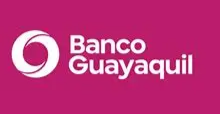
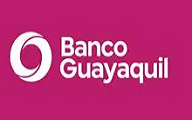
Ajuste de Dimensiones

diff --git a/One.Site/ClientApp/src/views/Pay/SeleccionProveedor.js b/One.Site/ClientApp/src/views/Pay/SeleccionProveedor.js
@@ -3,7 +3,7 @@ import {
     CCol, CContainer, CRow, CForm, CFormInput, CFormLabel, CButton, CLoadingButton,
     CCard, CCardBody, CCardHeader, CCardFooter, CFormSelect
 } from '@coreui/react-pro'
-import produbancoLogo from '../../assets/images/Produbanco.jpg'
+import produbancoLogo from '../../assets/images/Produbanco.png'
 import pichinchaLogo from '../../assets/images/BancoPichincha.png'
 import guayaquilLogo from '../../assets/images/BancoGuayaquil.png'
 
@@ -226,93 +226,98 @@ const SeleccionProveedor = () => {
                
                     <CRow className="d-flex justify-content-center">
                         <CCol xs={12} sm={6} md={3}>
-                            <CCard onClick={() => handleSeleccionPago('Produbanco')} className="text-center cursor-pointer">
+                            <CCard onClick={() => handleSeleccionPago('Produbanco')} className="text-center cursor-pointer mb-4">
                                 <CCardHeader className="bg-success text-white">Produbanco</CCardHeader>
                                 <CCardBody className="d-flex justify-content-center">
-                                    <img src={produbancoLogo} alt="Logo Produbanco" style={{ width: '220px' }} />
+                                        <img
+                                            src={produbancoLogo}
+                                            alt="Logo Produbanco"
+                                            className="img-fluid"
+                                           
+                                        />
                                     </CCardBody>
                                     <CCardFooter className="border-success border-3 text-start">
-                                        <div className="d-flex mb-1">
+                                        <div className="d-flex flex-wrap mb-1">
                                             <strong style={{ display: 'inline-block', width: '90px' }}>Tipo:</strong>
-                                            <span>Corriente</span>
+                                            <span className="text-break">Corriente</span>
                                         </div>
-                                        <div className="d-flex mb-1">
+                                        <div className="d-flex flex-wrap mb-1">
                                             <strong style={{ display: 'inline-block', width: '90px' }}>Número:</strong>
-                                            <span>2006177944</span>
+                                            <span className="text-break">2006177944</span>
                                         </div>
-                                        <div className="d-flex">
+                                        <div className="d-flex flex-wrap">
                                             <strong style={{ display: 'inline-block', width: '90px' }}>RUC:</strong>
-                                            <span>0993334642001</span>
+                                            <span className="text-break">0993334642001</span>
                                         </div>
-                                        <div className="d-flex">
+                                        <div className="d-flex flex-wrap">
                                             <strong style={{ display: 'inline-block', width: '90px' }}>Nombre:</strong>
-                                            <span>ONEBYTE S.A.</span>
+                                            <span className="text-break">ONEBYTE S.A.</span>
                                         </div>
-                                        <div className="d-flex">
+                                        <div className="d-flex flex-wrap">
                                             <strong style={{ display: 'inline-block', width: '90px' }}>Correo:</strong>
-                                            <span>pagos@onebyte.com.ec</span>
+                                            <span className="text-break">pagos@onebyte.com.ec</span>
                                         </div>
                                     </CCardFooter>
                             </CCard>
                         </CCol>
 
                         <CCol xs={12} sm={6} md={3}>
-                            <CCard onClick={() => handleSeleccionPago('Pichincha')} className="text-center cursor-pointer">
+                                <CCard onClick={() => handleSeleccionPago('Pichincha')} className="text-center cursor-pointer mb-4">
                                 <CCardHeader className="bg-warning text-dark">Banco Pichincha</CCardHeader>
                                 <CCardBody className="d-flex justify-content-center">
-                                    <img src={pichinchaLogo} alt="Logo Pichincha" style={{ width: '250px' }} />
+                                        <img src={pichinchaLogo} alt="Logo Pichincha" className="img-fluid" />
                                     </CCardBody>
                                     <CCardFooter className="border-warning border-3 text-start">
-                                        <div className="d-flex mb-1">
+                                        <div className="d-flex flex-wrap mb-1">
                                             <strong style={{ display: 'inline-block', width: '90px' }}>Tipo:</strong>
-                                            <span>Corriente</span>
+                                            <span className="text-break">Corriente</span>
                                         </div>
-                                        <div className="d-flex mb-1">
+                                        <div className="d-flex flex-wrap mb-1">
                                             <strong style={{ display: 'inline-block', width: '90px' }}>Número:</strong>
-                                            <span>2100285305</span>
+                                            <span className="text-break">2100285305</span>
                                         </div>
-                                        <div className="d-flex">
+                                        <div className="d-flex flex-wrap">
                                             <strong style={{ display: 'inline-block', width: '90px' }}>RUC:</strong>
-                                            <span>0993334642001</span>
+                                            <span className="text-break">0993334642001</span>
                                         </div>
-                                        <div className="d-flex">
+                                        <div className="d-flex flex-wrap">
                                             <strong style={{ display: 'inline-block', width: '90px' }}>Nombre:</strong>
-                                            <span>ONEBYTE S.A.</span>
+                                            <span className="text-break">ONEBYTE S.A.</span>
                                         </div>
-                                        <div className="d-flex">
+                                        <div className="d-flex flex-wrap">
                                             <strong style={{ display: 'inline-block', width: '90px' }}>Correo:</strong>
-                                            <span>pagos@onebyte.com.ec</span>
+                                            <span className="text-break">pagos@onebyte.com.ec</span>
                                         </div>
                                     </CCardFooter>
                             </CCard>
                         </CCol>
 
                         <CCol xs={12} sm={6} md={3}>
-                            <CCard onClick={() => handleSeleccionPago('Guayaquil')} className="text-center cursor-pointer">
+                                <CCard onClick={() => handleSeleccionPago('Guayaquil')} className="text-center cursor-pointer mb-4">
                                 <CCardHeader className="bg-danger text-white">Banco Guayaquil</CCardHeader>
                                 <CCardBody className="d-flex justify-content-center">
-                                    <img src={guayaquilLogo} alt="Logo Guayaquil" style={{ width: '267px' }} />
+                                        <img src={guayaquilLogo} alt="Logo Guayaquil" className="img-fluid" />
                                     </CCardBody>
                                     <CCardFooter className="border-danger border-3 text-start">
-                                        <div className="d-flex mb-1">
+                                        <div className="d-flex flex-wrap mb-1">
                                             <strong style={{ display: 'inline-block', width: '90px' }}>Tipo:</strong>
-                                            <span>Corriente</span>
+                                            <span className="text-break">Corriente</span>
                                         </div>
-                                        <div className="d-flex mb-1">
+                                        <div className="d-flex flex-wrap mb-1">
                                             <strong style={{ display: 'inline-block', width: '90px' }}>Número:</strong>
-                                            <span>0043115359</span>
+                                            <span className="text-break">0043115359</span>
                                         </div>
-                                        <div className="d-flex">
+                                        <div className="d-flex flex-wrap">
                                             <strong style={{ display: 'inline-block', width: '90px' }}>RUC:</strong>
-                                            <span>0993334642001</span>
+                                            <span className="text-break">0993334642001</span>
                                         </div>
-                                        <div className="d-flex">
+                                        <div className="d-flex flex-wrap">
                                             <strong style={{ display: 'inline-block', width: '90px' }}>Nombre:</strong>
-                                            <span>ONEBYTE S.A.</span>
+                                            <span className="text-break">ONEBYTE S.A.</span>
                                         </div>
-                                        <div className="d-flex">
+                                        <div className="d-flex flex-wrap">
                                             <strong style={{ display: 'inline-block', width: '90px' }}>Correo:</strong>
-                                            <span>pagos@onebyte.com.ec</span>
+                                            <span className="text-break">pagos@onebyte.com.ec</span>
                                         </div>
                                     </CCardFooter>
 
